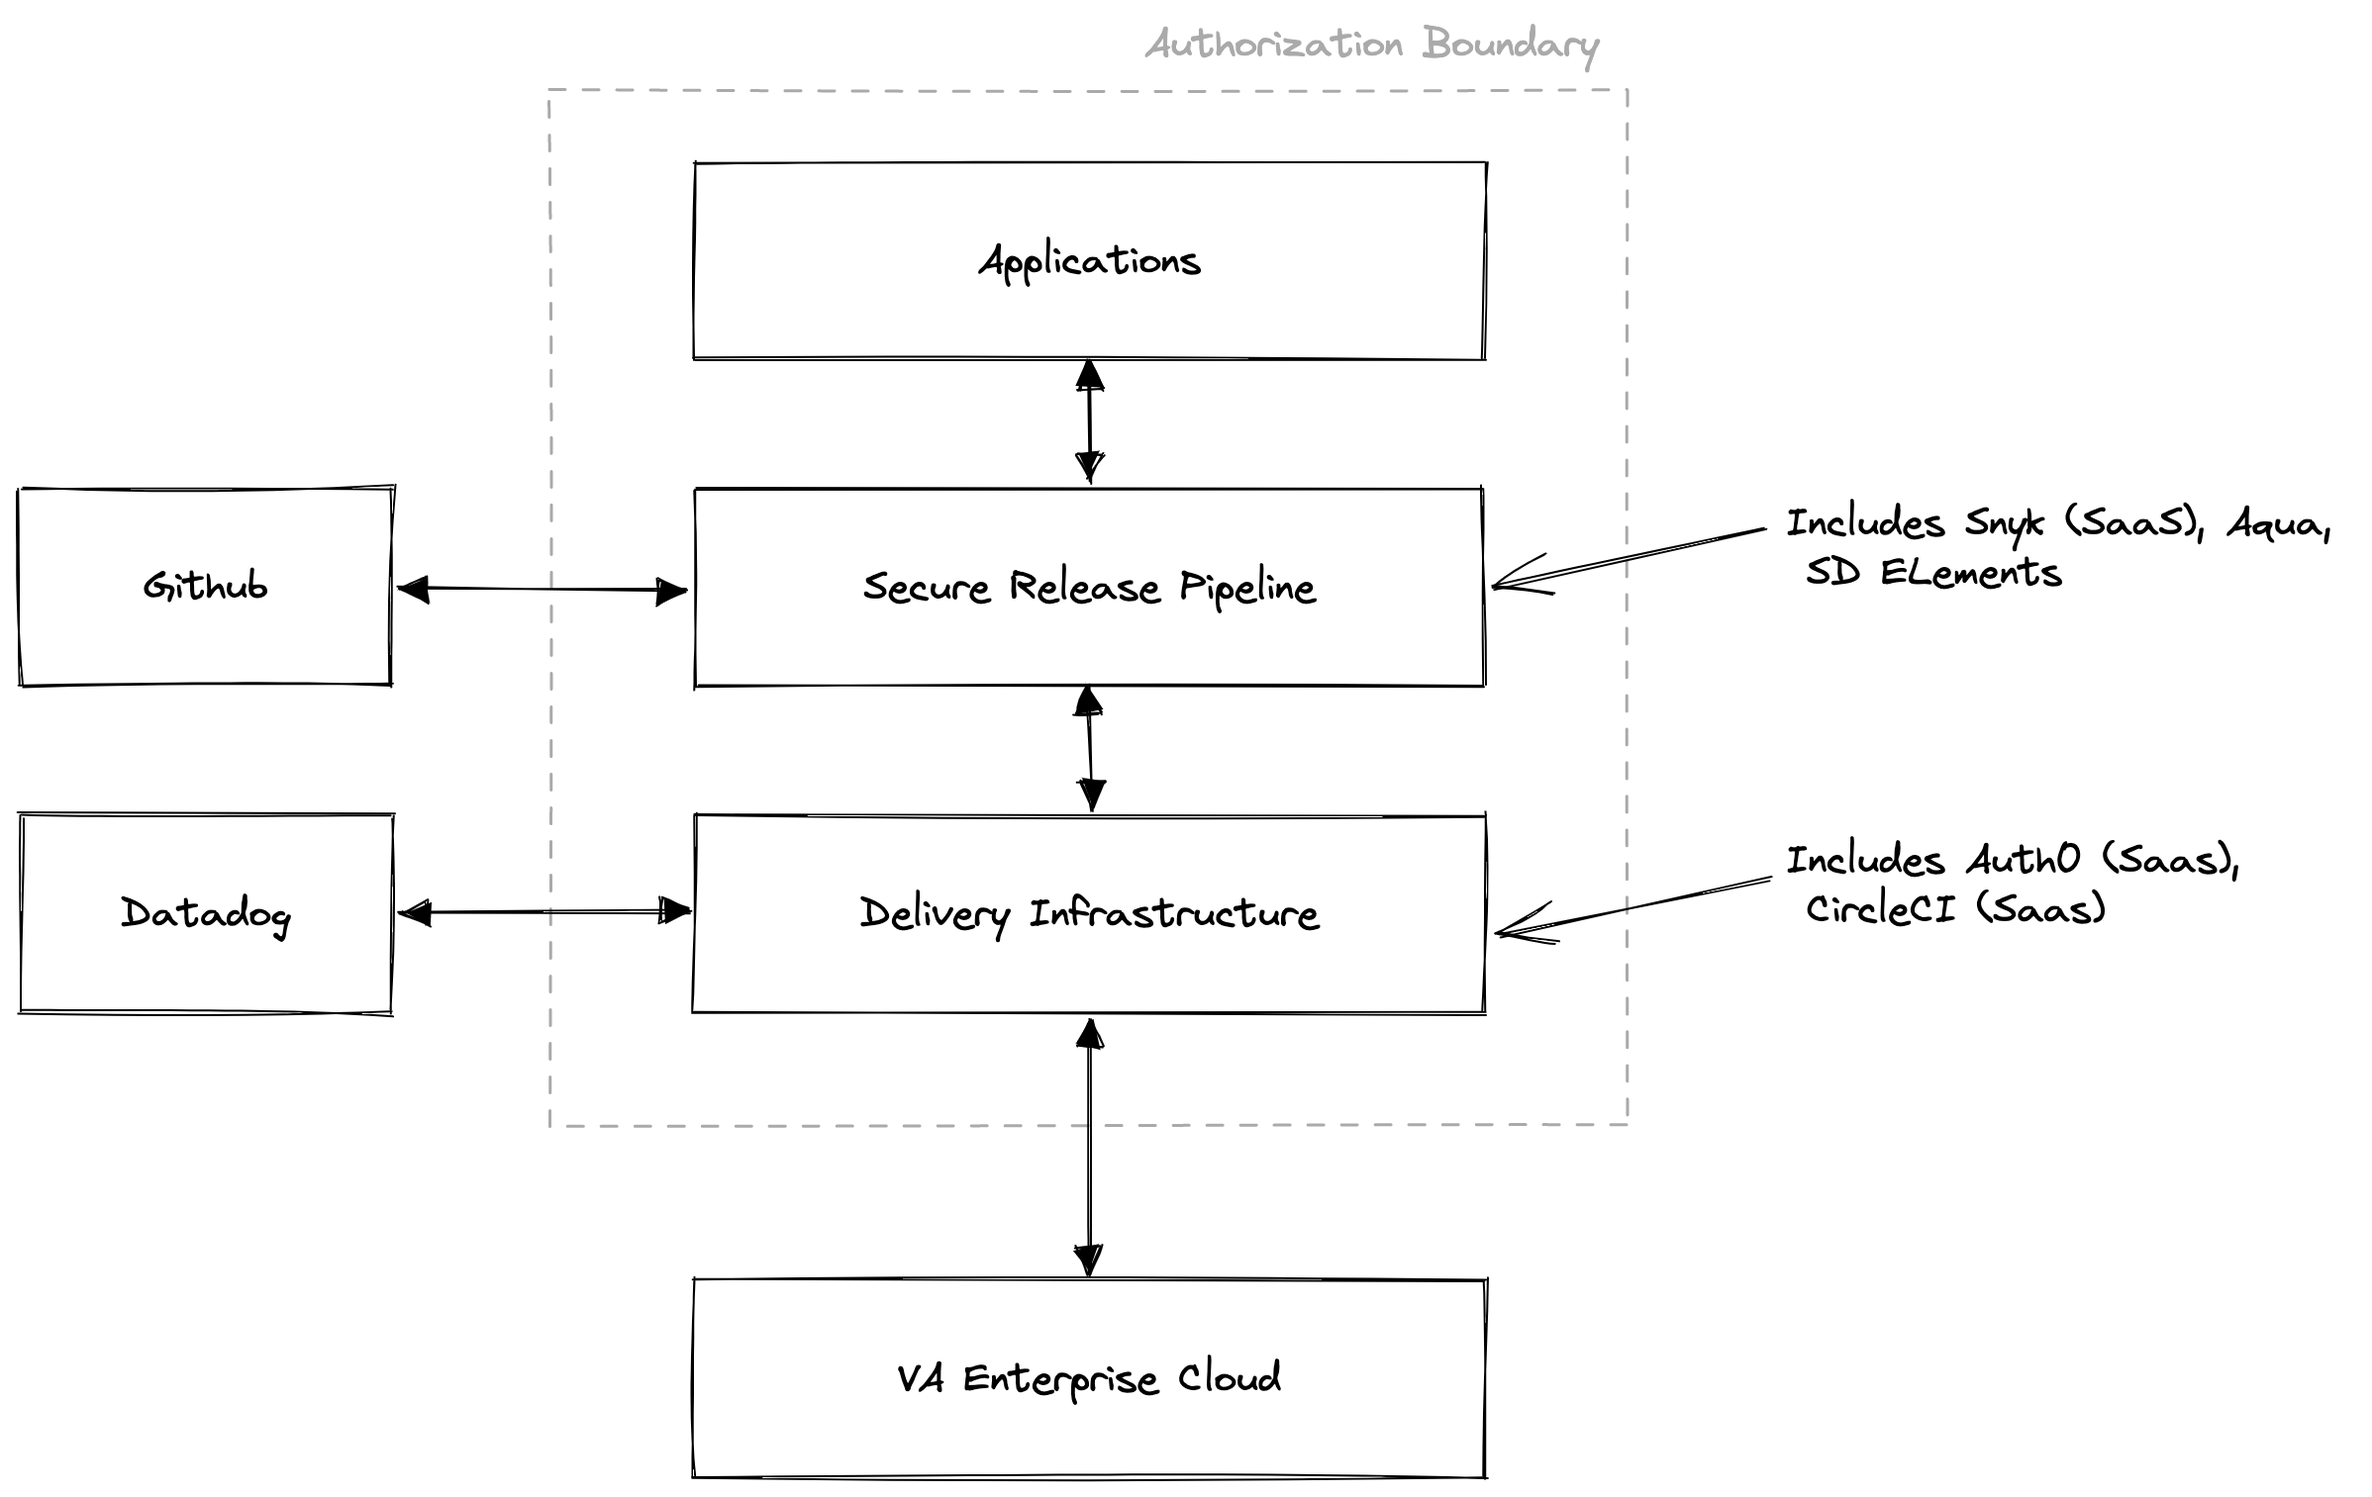
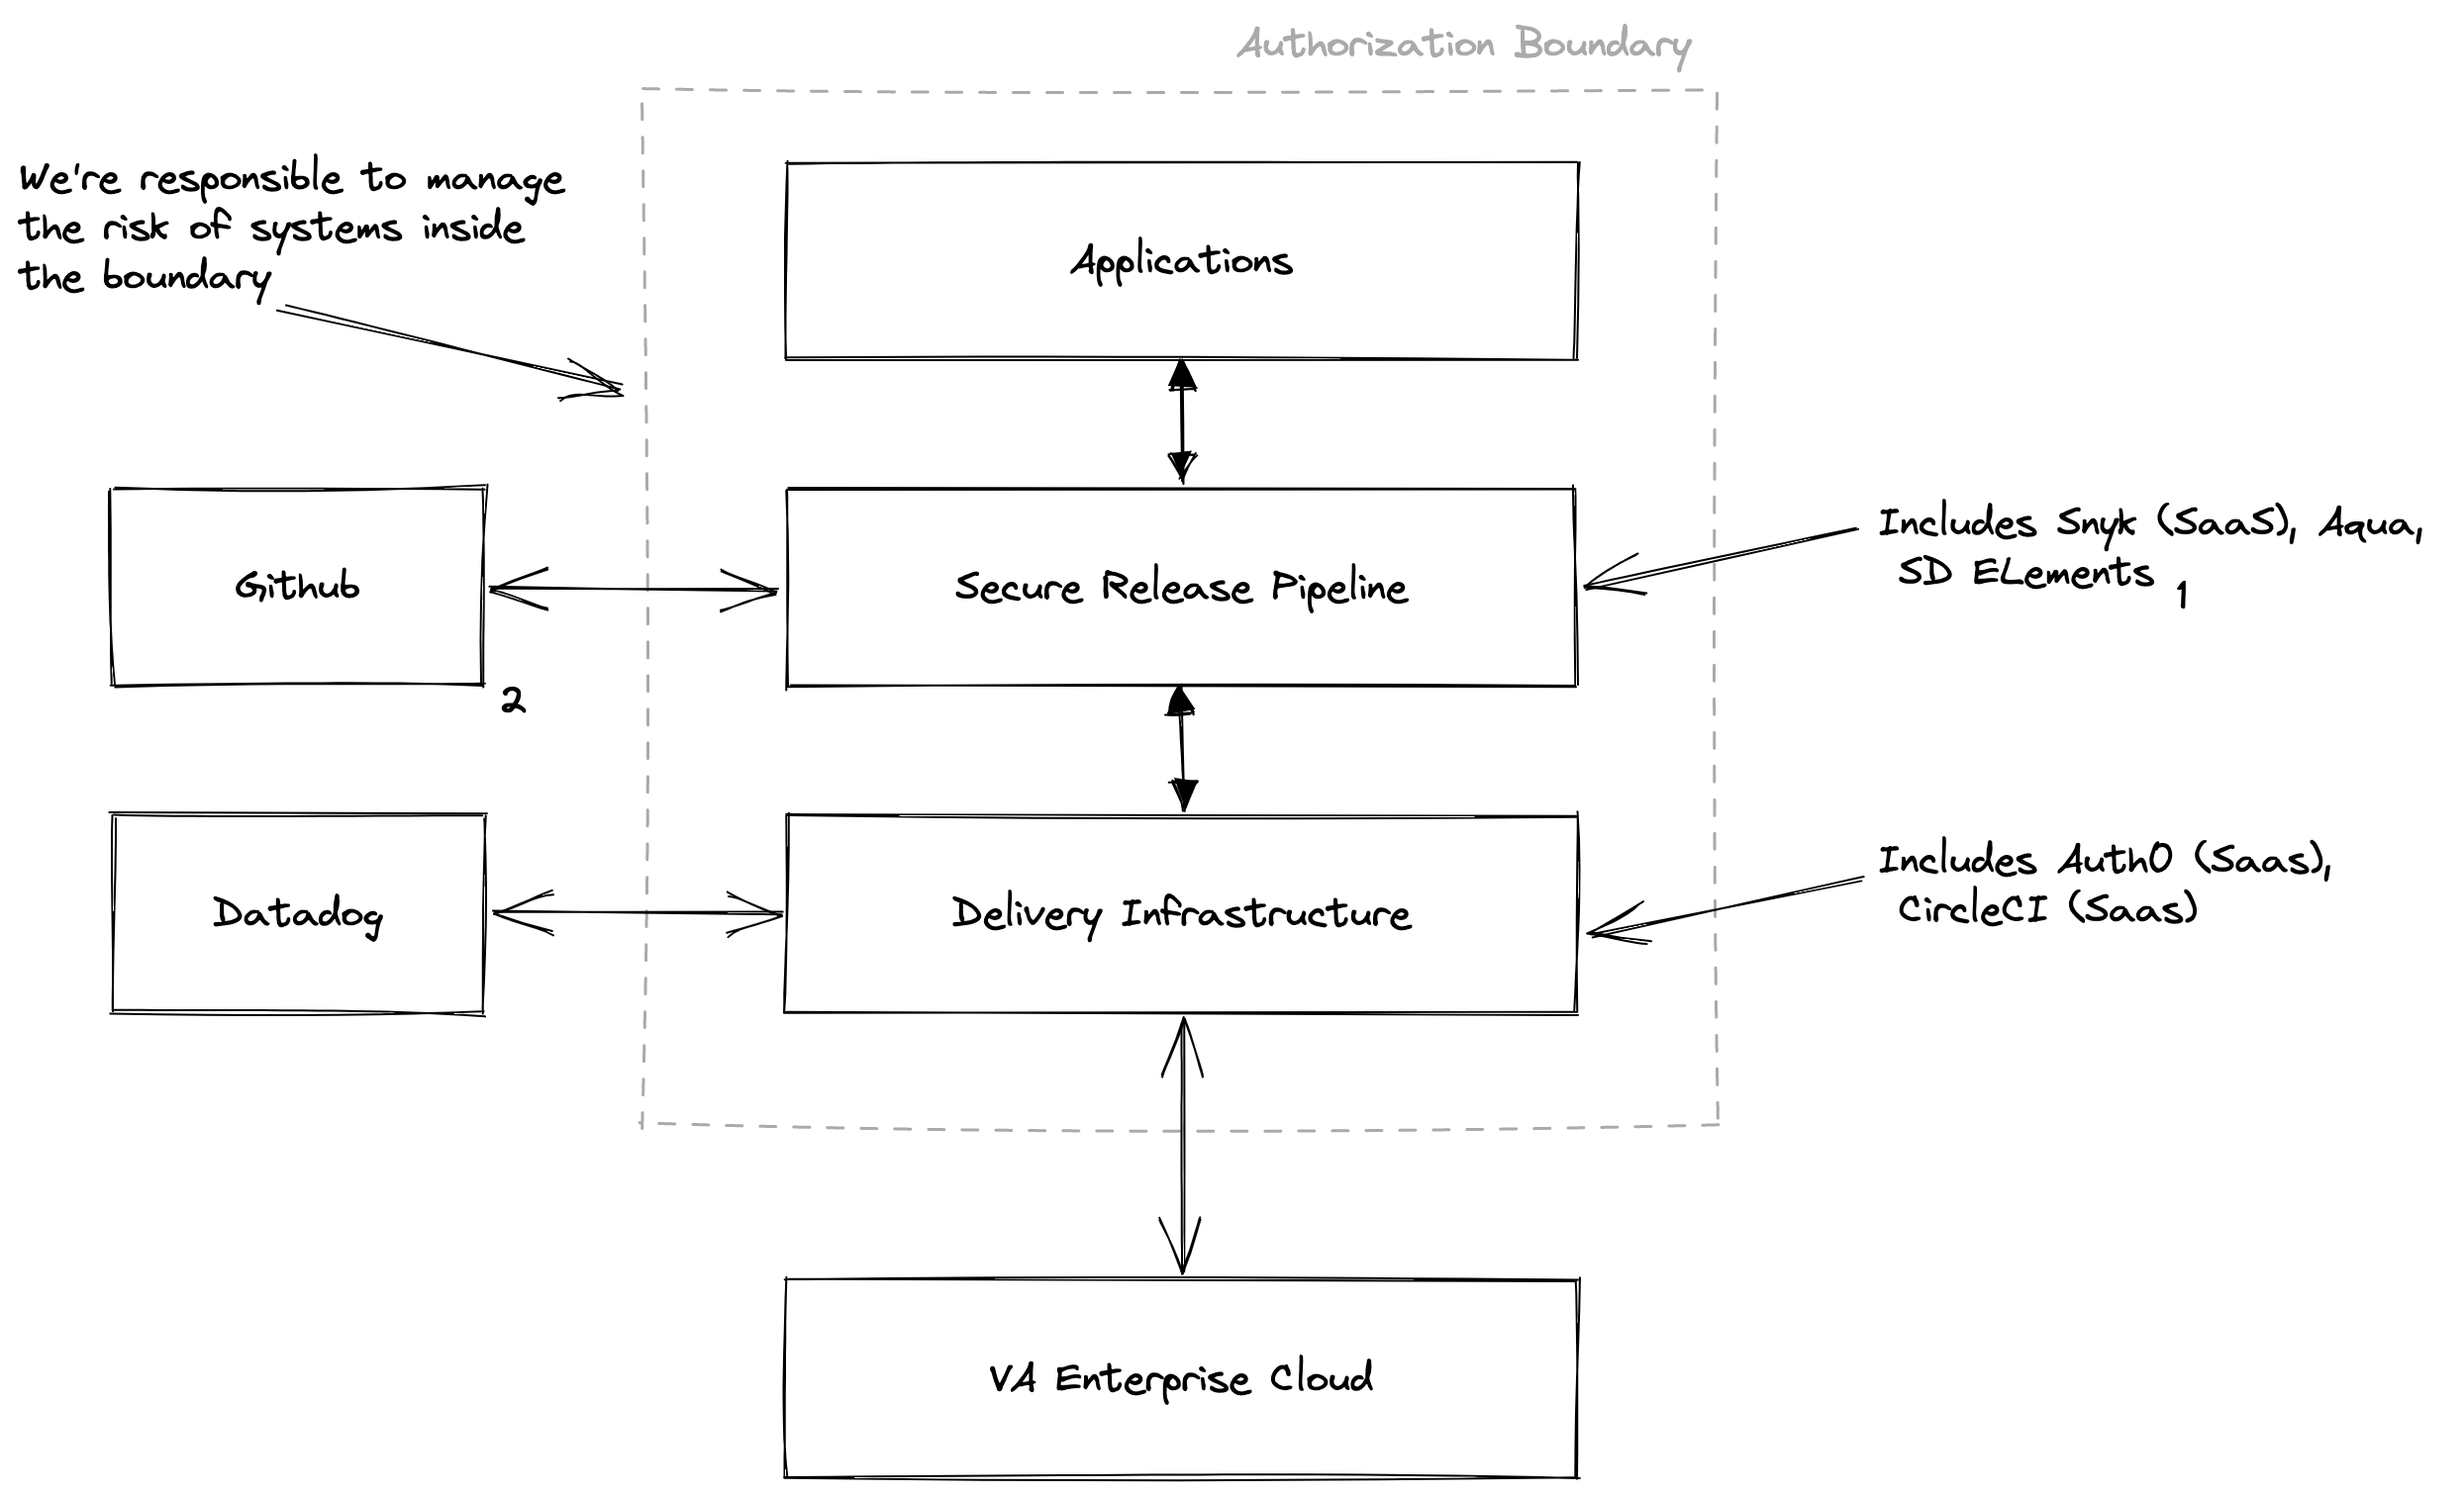
Updated boundary diagram

diff --git a/docs/boundary.md b/docs/boundary.md
@@ -1,6 +1,9 @@
 # Authorization Boundary
 
-![Boundary!](images/boundary.png "Boundary")[^1]
+![Boundary!](images/boundary.png "Boundary")
 
 [^1]: We are working with the Digital Transformation Center (DTC) to secure an ATO for Saas products. 
-      Saas products (eg Snyk, Auth0, CircleCI) will be removed from the authorization boundary once this is achieved.
+      Saas products (eg Snyk, Auth0, CircleCI) will be removed from the authorization boundary once this has been
+      achieved.
+[^2]: [Github](https://www.oit.va.gov/marketplace/product/details/get/github) and 
+[Datadog](https://www.oit.va.gov/marketplace/product/details/get/datadog) are authorized by the VA
